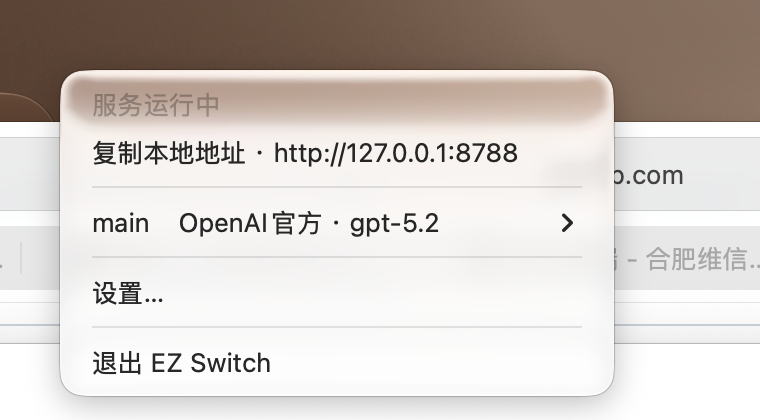
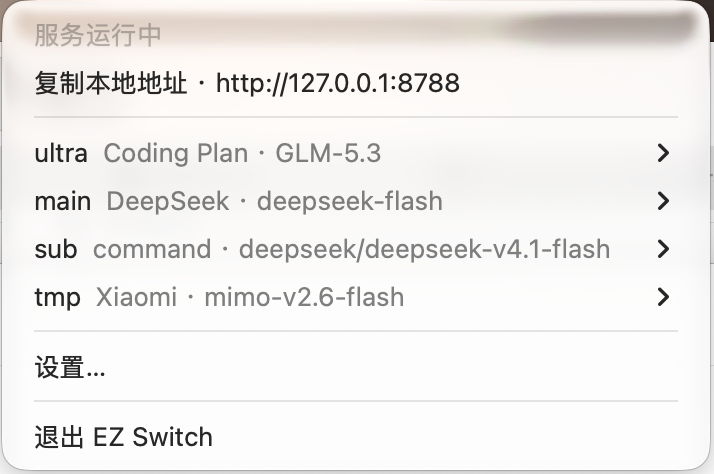
Add harness setup prompt generator

diff --git a/Sources/EZSwitch/GeneralPane.swift b/Sources/EZSwitch/GeneralPane.swift
@@ -6,6 +6,21 @@ final class GeneralDraft: ObservableObject {
     @Published var port = ""
 }
 
+enum HarnessPrompt {
+    static func make(endpoint: String, modelIDs: [String]) -> String {
+        let models = modelIDs.isEmpty ? "<model-id>" : modelIDs.joined(separator: "、")
+        return """
+        请帮我配置一个使用 EZ Switch 的本地模型供应商：
+
+        - 端点：\(endpoint)
+        - 密钥：任意占位符（例如 ez-switch-local）
+        - 模型：\(models)
+
+        请修改当前 harness 的配置文件，并在需要时说明如何重新加载或重启。
+        """
+    }
+}
+
 struct GeneralPane: View {
     @ObservedObject var store: ConfigStore
     @StateObject private var draft = GeneralDraft()
@@ -19,6 +34,13 @@ struct GeneralPane: View {
         let short = Bundle.main.object(forInfoDictionaryKey: "CFBundleShortVersionString") as? String ?? "0"
         let build = Bundle.main.object(forInfoDictionaryKey: "CFBundleVersion") as? String ?? "0"
         return "\(short) (\(build))"
+    }
+
+    private var promptText: String {
+        HarnessPrompt.make(
+            endpoint: store.connectionURL + "/v1",
+            modelIDs: store.config.fakes.map(\.fakeModelID)
+        )
     }
 
     var body: some View {
@@ -49,6 +71,24 @@ struct GeneralPane: View {
             Section("启动") {
                 Toggle("登录时启动", isOn: Binding(get: { store.loginItemEnabled }, set: { _ in store.toggleLoginItem() }))
             }
+            Section("Harness 配置提示词") {
+                if store.config.fakes.isEmpty {
+                    Text("请先在“模型”页添加一个本机模型 ID。")
+                        .foregroundStyle(.secondary)
+                } else {
+                    Text(promptText)
+                        .font(.system(size: 12, design: .monospaced))
+                        .textSelection(.enabled)
+                        .padding(10)
+                        .frame(maxWidth: .infinity, alignment: .leading)
+                        .background(Color(nsColor: .textBackgroundColor), in: RoundedRectangle(cornerRadius: 8))
+                    Button {
+                        copyText(promptText)
+                    } label: {
+                        Label("复制提示词", systemImage: "doc.on.doc")
+                    }
+                }
+            }
             Section("应用") {
                 HStack {
                     Text("版本")
@@ -63,7 +103,9 @@ struct GeneralPane: View {
         }
         .formStyle(.grouped)
         .navigationTitle("通用")
-        .onAppear { draft.port = String(store.config.port) }
+        .onAppear {
+            draft.port = String(store.config.port)
+        }
         .onChange(of: store.config.port) { port in draft.port = String(port) }
     }
 

diff --git a/Tests/EZSwitchTests/HarnessPromptTests.swift b/Tests/EZSwitchTests/HarnessPromptTests.swift
@@ -1,0 +1,24 @@
+import XCTest
+@testable import EZSwitch
+
+final class HarnessPromptTests: XCTestCase {
+    func testPromptContainsDynamicEndpointAndModel() {
+        let prompt = HarnessPrompt.make(
+            endpoint: "http://127.0.0.1:8799/v1",
+            modelIDs: ["main", "ultra", "sub"]
+        )
+
+        XCTAssertTrue(prompt.contains("- 端点：http://127.0.0.1:8799/v1"))
+        XCTAssertTrue(prompt.contains("- 密钥：任意占位符（例如 ez-switch-local）"))
+        XCTAssertTrue(prompt.contains("- 模型：main、ultra、sub"))
+    }
+
+    func testPromptUsesPlaceholderWhenNoModelIsAvailable() {
+        let prompt = HarnessPrompt.make(
+            endpoint: "http://127.0.0.1:8788/v1",
+            modelIDs: []
+        )
+
+        XCTAssertTrue(prompt.contains("- 模型：<model-id>"))
+    }
+}
